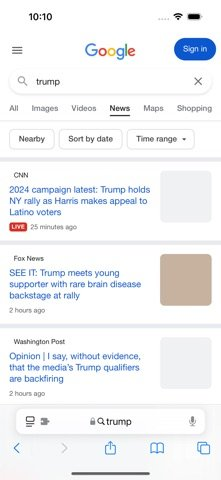
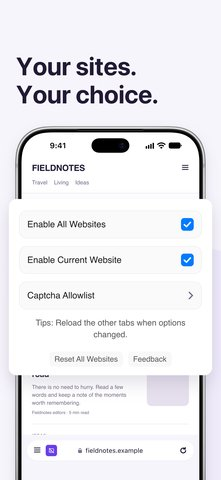
docs(nomedia): og-v4 share card and refreshed page shots
Regenerate the OG/twitter card from the updated store screenshot
scene 01, point app page meta at og-v4.jpg, and refresh shot-1/2
from light scenes 01-02 (closer popup chrome / FIELDNOTES).

diff --git a/docs/apps/nomedia.md b/docs/apps/nomedia.md
@@ -6,13 +6,13 @@ head:
   - [meta, { property: og:title, content: "NoMedia | Prima Aestate" }]
   - [meta, { property: og:description, content: "Remove images and media from Safari pages for cleaner, faster, data-saving reading." }]
   - [meta, { property: og:url, content: "https://www.primaaestate.cloud/apps/nomedia" }]
-  - [meta, { property: og:image, content: "https://www.primaaestate.cloud/img/apps/nomedia/og-v3.jpg" }]
+  - [meta, { property: og:image, content: "https://www.primaaestate.cloud/img/apps/nomedia/og-v4.jpg" }]
   - [meta, { property: og:image:width, content: "1200" }]
   - [meta, { property: og:image:height, content: "630" }]
   - [meta, { name: twitter:card, content: summary_large_image }]
   - [meta, { name: twitter:title, content: "NoMedia | Prima Aestate" }]
   - [meta, { name: twitter:description, content: "Remove images and media from Safari pages for cleaner, faster, data-saving reading." }]
-  - [meta, { name: twitter:image, content: "https://www.primaaestate.cloud/img/apps/nomedia/og-v3.jpg" }]
+  - [meta, { name: twitter:image, content: "https://www.primaaestate.cloud/img/apps/nomedia/og-v4.jpg" }]
 ---
 
 <script setup>
